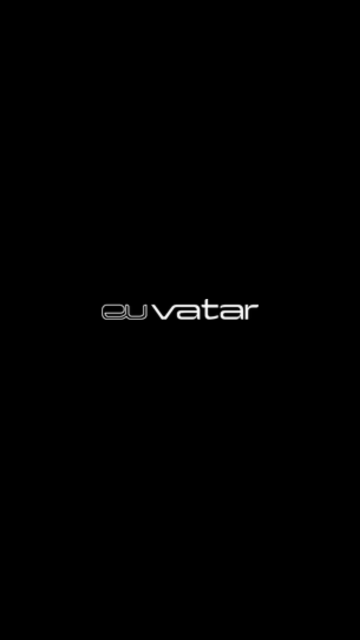
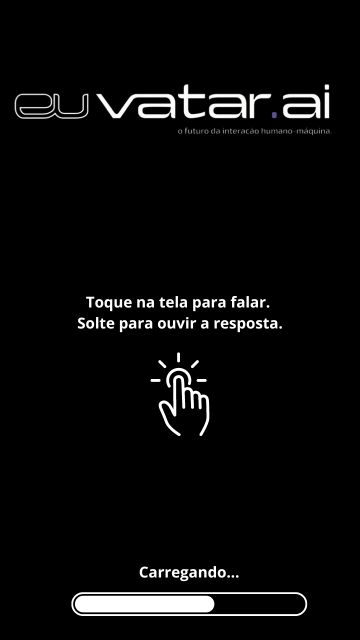
Ajustado telas

diff --git a/src/style/experience.css b/src/style/experience.css
@@ -1,5 +1,3 @@
-/* experience.css */
-
 .experience-container {
     display: flex;
     flex-direction: column;
@@ -9,21 +7,19 @@
     width: 100%;
     height: 100vh;
     box-sizing: border-box;
-    background-color: #000;
+    background-color: #333333;
 }
 
 .euvatar-logo-experience {
-    width: 80%;
-    max-width: 300px;
-    margin-bottom: 20px;
+    width: 50%; 
+    max-width: 150px; 
+    margin-bottom: 0px;
 }
 
 .iframe-container {
     position: relative;
-    width: 100%;
-    max-width: 360px;
-    height: auto;
-    aspect-ratio: 9 / 16;
+    width: 360px; /* Largura fixa */
+    height: 640px; /* Altura fixa */
     margin-bottom: 10px;
     border-radius: 10px;
     overflow: hidden;
@@ -66,7 +62,8 @@
     }
 
     .iframe-container {
-        max-width: 300px;
+        width: 320px;
+        height: 570px;
     }
 }
 
@@ -77,7 +74,12 @@
     }
 
     .iframe-container {
-        max-width: 250px;
+        width: 100%; /* Ocupa toda a largura da tela */
+        height: auto; /* Altura automática para manter a proporção */
+    }
+
+    .experience-iframe {
+        height: 100%; /* Garantir que o iframe preencha toda a altura disponível */
     }
 
     .loading-text {

diff --git a/src/pages/character/Experience.js b/src/pages/character/Experience.js
@@ -22,9 +22,13 @@ function Experience() {
                 <iframe
                     ref={iframeRef}
                     id="arcane-player-frame"
-                    src="https://embed.arcanemirage.com/49e0ebd8-adea-45f3-a398-0f03cb9db8f8?key=aWQ9MzQ1OCZrZXk9NDllMGViZDgtYWRlYS00NWYzLWEzOTgtMGYwM2NiOWRiOGY4JnRva2VuPXdDY3YzdTB4djZZZg=="
+                    src="https://embed.arcanemirage.com/b47cb3d7-9ee8-4964-81da-3ff93ec455fc?key=aWQ9MzQ3NSZrZXk9YjQ3Y2IzZDctOWVlOC00OTY0LTgxZGEtM2ZmOTNlYzQ1NWZjJnRva2VuPUdpa1RzQ2dvOVo2UQ=="
                     frameBorder="0"
-                    allow="microphone; fullscreen"
+                    width="640px"
+                    height="480px"
+                    mozallowfullscreen="true"
+                    webkitallowfullscreen="true"
+                    allow="fullscreen; microphone"
                     className="experience-iframe"
                 ></iframe>
                 {placeholderVisible && <div className="iframe-placeholder"></div>}

diff --git a/src/style/home.css b/src/style/home.css
@@ -4,7 +4,7 @@ body, html {
   padding: 0;
   box-sizing: border-box;
   font-family: 'Arial', sans-serif;
-  background-color: #000; /* Fundo preto */
+  background-color: #333333; /* Fundo preto */
   color: #fff;
   height: 100%;
   display: flex;
